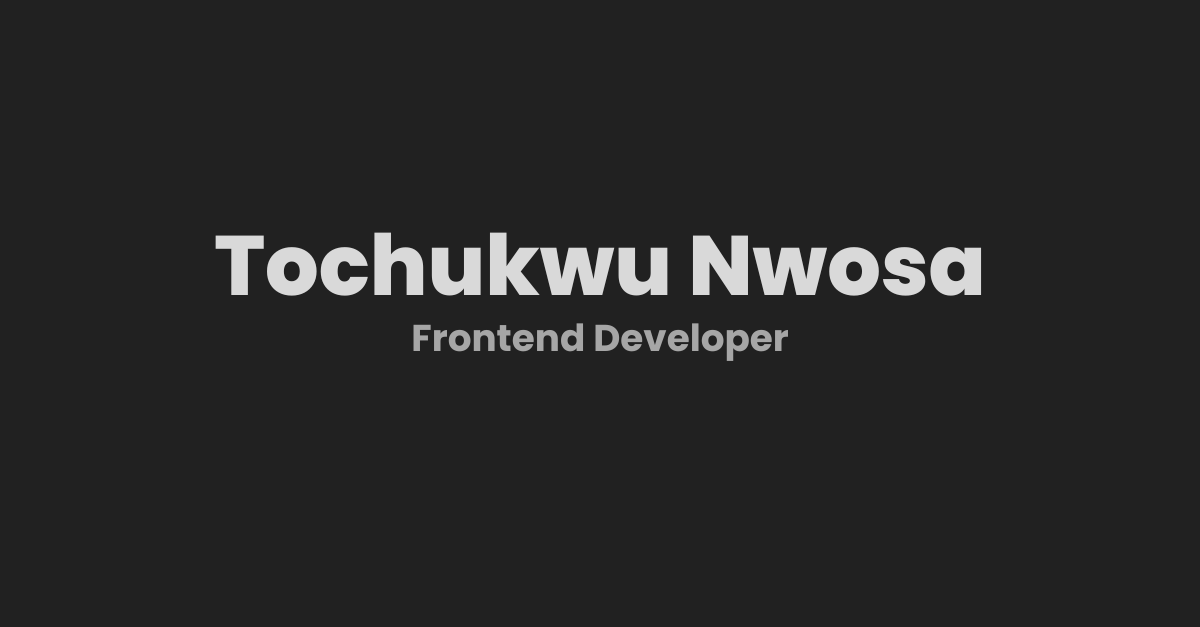
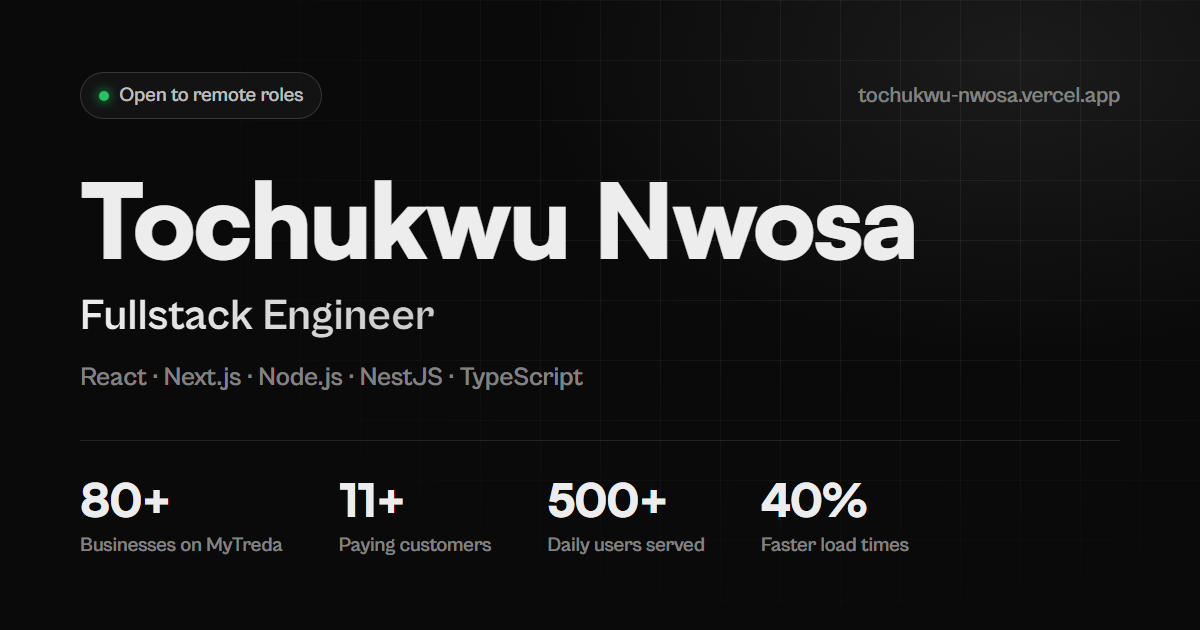
feat: redesign OG image as Fullstack Engineer
Replace outdated "Frontend Developer" OG image with a new design showing
role, stack and hero stats. Add ?v=2 to the image URL to bust social caches.

diff --git a/app/layout.tsx b/app/layout.tsx
@@ -35,7 +35,7 @@ export const metadata: Metadata = {
     siteName: "Tochukwu Nwosa - Fullstack Engineer",
     images: [
       {
-        url: "https://tochukwu-nwosa.vercel.app/og-image.png",
+        url: "https://tochukwu-nwosa.vercel.app/og-image.png?v=2",
         width: 1200,
         height: 630,
         alt: "Tochukwu Nwosa - Fullstack Engineer Portfolio",
@@ -51,7 +51,7 @@ export const metadata: Metadata = {
       "Building and shipping full-stack products. 80+ businesses on MyTreda, 500+ daily users on Kinlearn.",
     site: "@tochukwudev",
     creator: "@tochukwudev",
-    images: ["https://tochukwu-nwosa.vercel.app/og-image.png"],
+    images: ["https://tochukwu-nwosa.vercel.app/og-image.png?v=2"],
   },
 };
 
